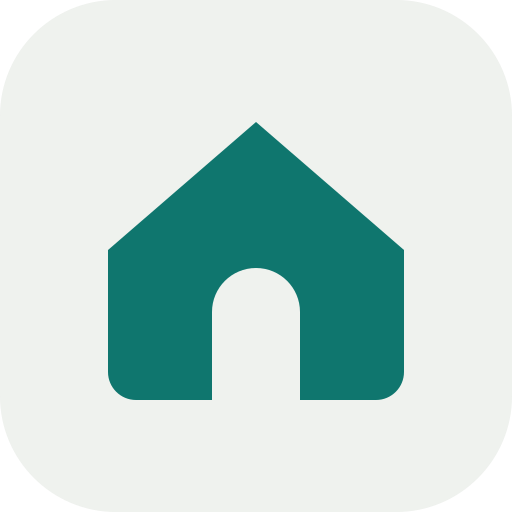
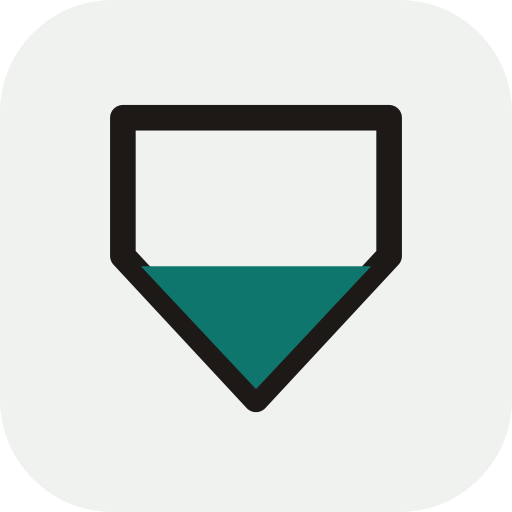
feat: apply home base identity

Changed region(s): [[0.1875, 0.1875, 0.8125, 0.8125]]

diff --git a/src/components/app-logo.tsx b/src/components/app-logo.tsx
@@ -1,0 +1,21 @@
+import Image from "next/image";
+
+export function AppLogo({ compact = false }: { compact?: boolean }) {
+  return (
+    <span className="inline-flex items-center gap-2.5">
+      <Image
+        src="/home-base-mono.svg"
+        alt=""
+        width={26}
+        height={26}
+        priority
+        className="size-6"
+      />
+      {compact ? null : (
+        <span className="text-xs font-semibold uppercase tracking-[0.16em] text-teal-700">
+          Home Base
+        </span>
+      )}
+    </span>
+  );
+}

diff --git a/src/components/app-shell.tsx b/src/components/app-shell.tsx
@@ -1,6 +1,7 @@
 import Link from "next/link";
 import { MessageCircle, Search, Settings } from "lucide-react";
 import { AppDock } from "@/components/app-dock";
+import { AppLogo } from "@/components/app-logo";
 
 export function AppShell({ children }: { children: React.ReactNode }) {
   return (
@@ -8,9 +9,10 @@ export function AppShell({ children }: { children: React.ReactNode }) {
       <div className="mx-auto flex w-full max-w-5xl items-center justify-between gap-3 px-4 pt-4 sm:px-6">
         <Link
           href="/"
-          className="text-xs font-semibold uppercase tracking-[0.16em] text-teal-700"
+          className="rounded-full focus-visible:outline focus-visible:outline-2 focus-visible:outline-offset-4 focus-visible:outline-teal-700"
+          aria-label="Home Base home"
         >
-          Home Base
+          <AppLogo />
         </Link>
         <div className="flex items-center gap-2">
           <Link

diff --git a/src/app/layout.tsx b/src/app/layout.tsx
@@ -23,6 +23,10 @@ export const metadata: Metadata = {
   title: "Home Base",
   description: "Personal operations system",
   icons: {
+    icon: [
+      { url: "/home-base-icon.svg", type: "image/svg+xml" },
+      { url: "/icon-512.png", sizes: "512x512", type: "image/png" },
+    ],
     apple: "/apple-touch-icon.png",
   },
 };